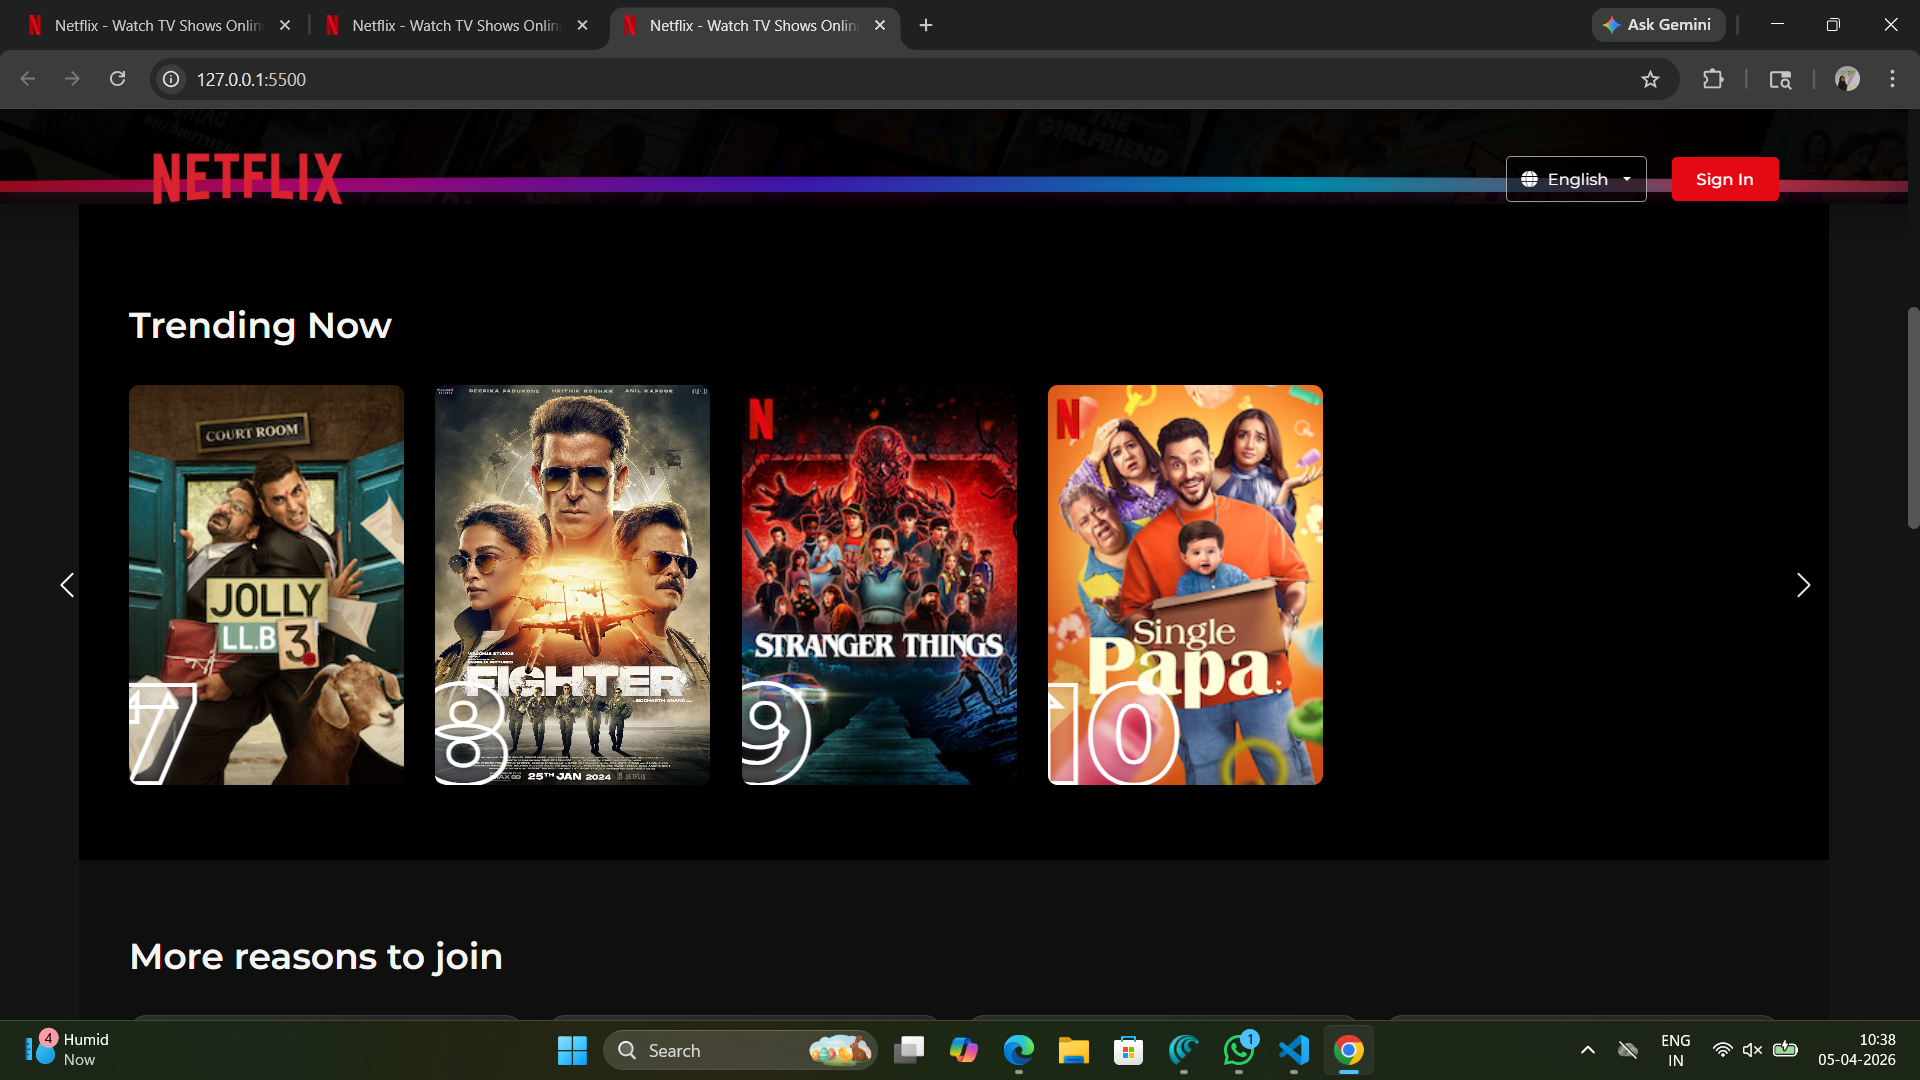
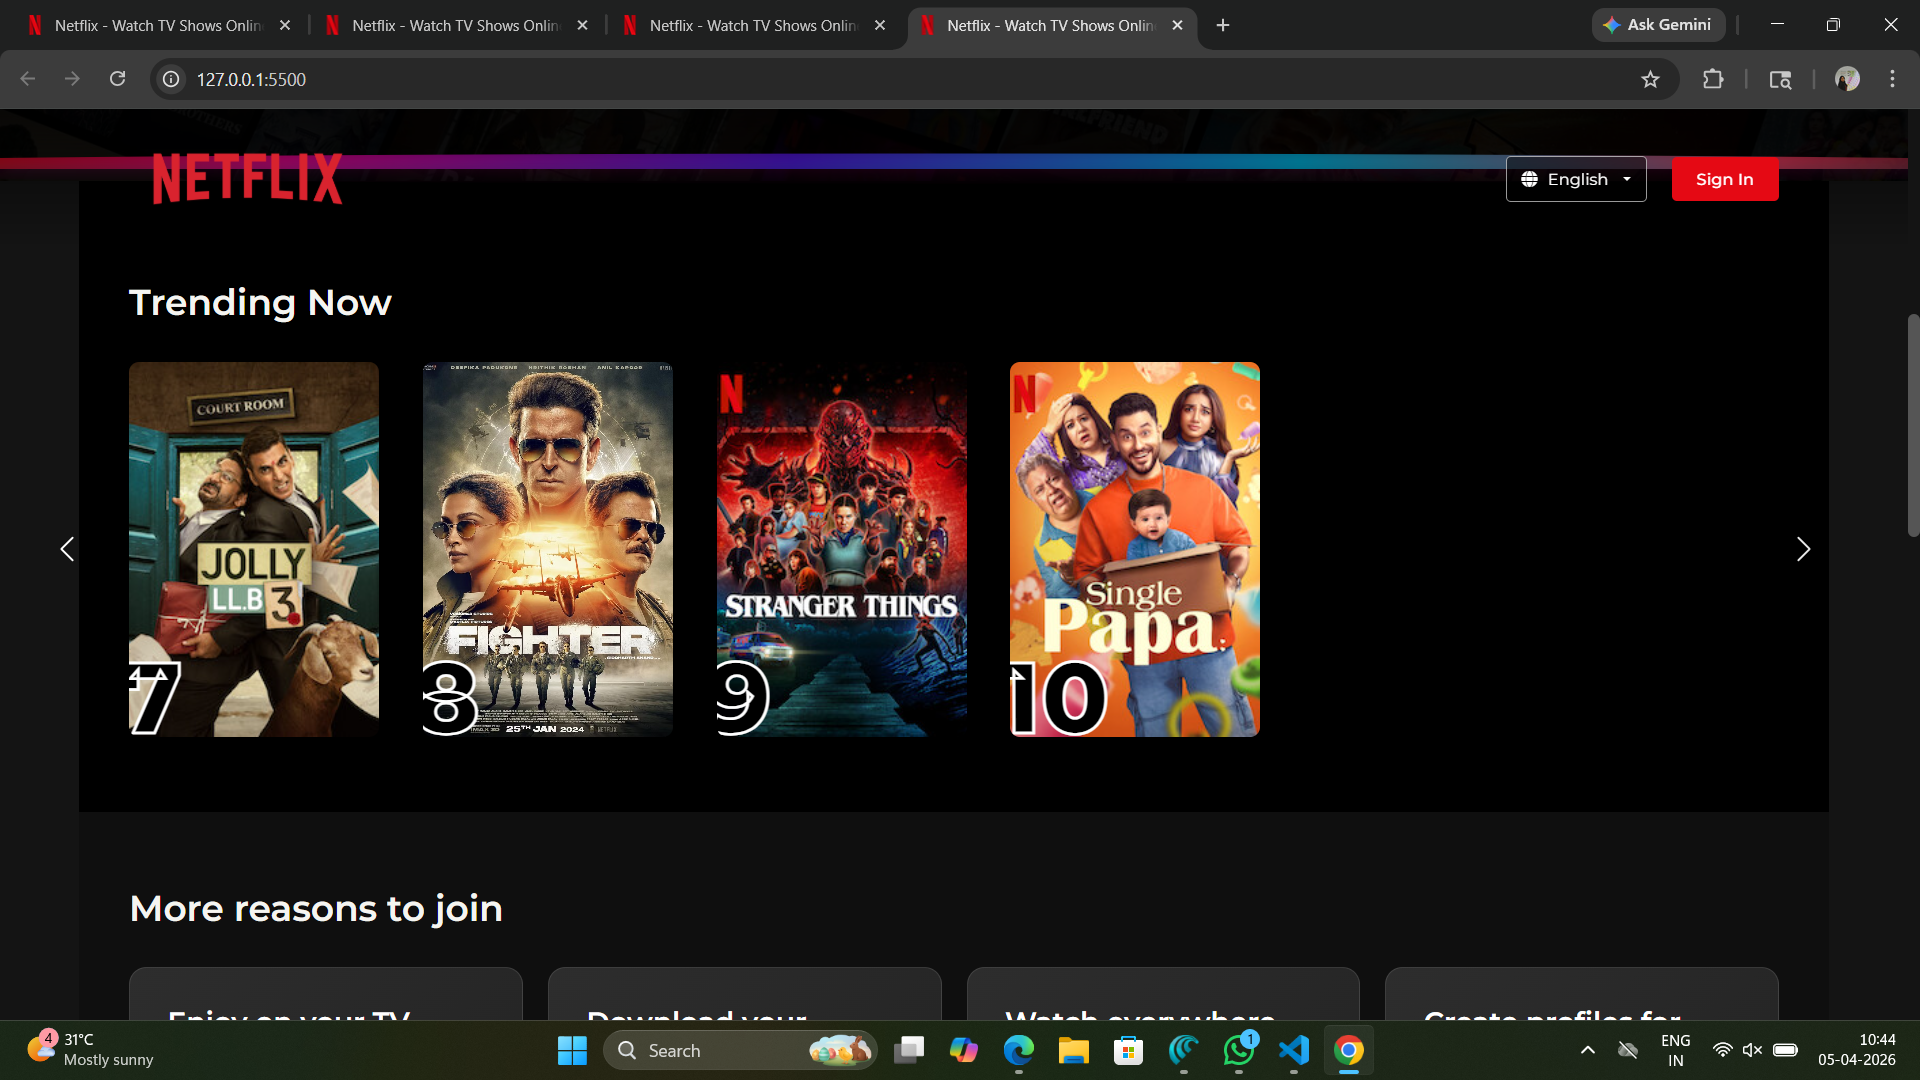
YES

diff --git a/style.css b/style.css
@@ -286,7 +286,7 @@ a {
 
 .movie-row {
     display: flex;
-    gap: 35px;
+    gap: 38px;
     overflow: hidden;
     position: relative;
 }
@@ -294,8 +294,8 @@ a {
 /* CARD */
 
 .movie-item {
-    flex: 0 0 200px;
-    height: 300px;
+    flex: 0 0 210px;
+    height: 310px;
     border-radius: 8px;
     overflow: hidden;
     position: relative;
@@ -319,8 +319,8 @@ a {
 
 .movie-rank {
     position: absolute;
-    bottom: -8px;
-    left: -8px;
+    bottom: -18px;
+    left: -18px;
     font-size: 5rem;
     font-weight: 900;
     color: #000000;
@@ -328,6 +328,7 @@ a {
     line-height: 1;
     z-index: 5;
 }
+
 
 
 /* RIGHT FADE (PARTIAL CARD EFFECT) */

diff --git a/index.html b/index.html
@@ -88,6 +88,7 @@
       <div class="carousel-item">
         <div class="movie-row">
 
+          <div class="movie-item"><span class="movie-rank">6</span><img src="MOVIE6.jpg" alt="Movie 6"></div>
           <div class="movie-item"><span class="movie-rank">7</span><img src="MOVIE7.jpg" alt="Movie 7"></div>
           <div class="movie-item"><span class="movie-rank">8</span><img src="MOVIE8.avif" alt="Movie 8"></div>
           <div class="movie-item"><span class="movie-rank">9</span><img src="MOVIE9.jpg" alt="Movie 9"></div>
